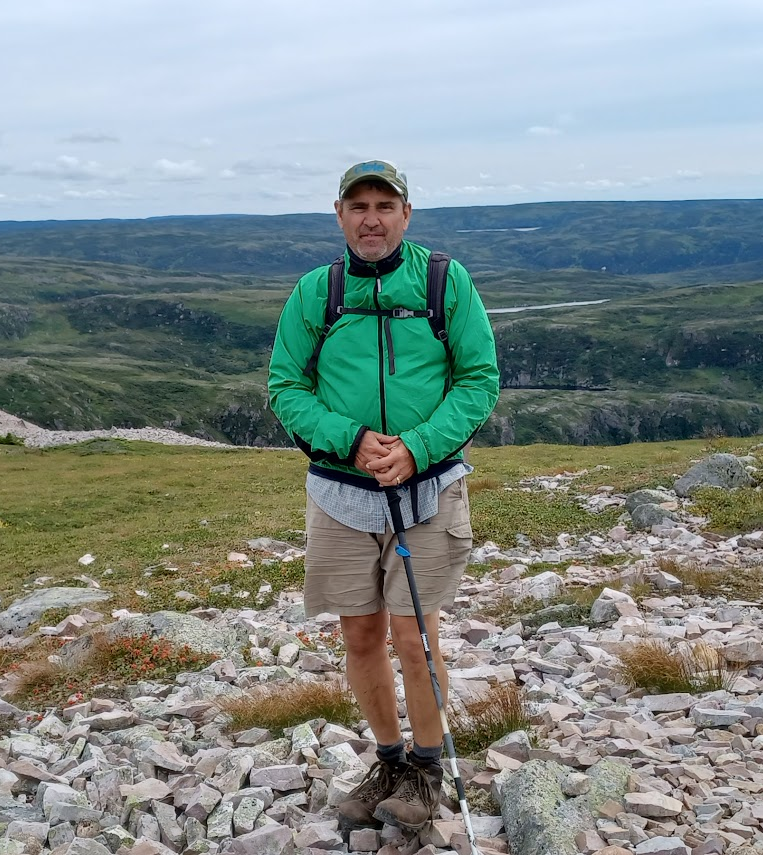
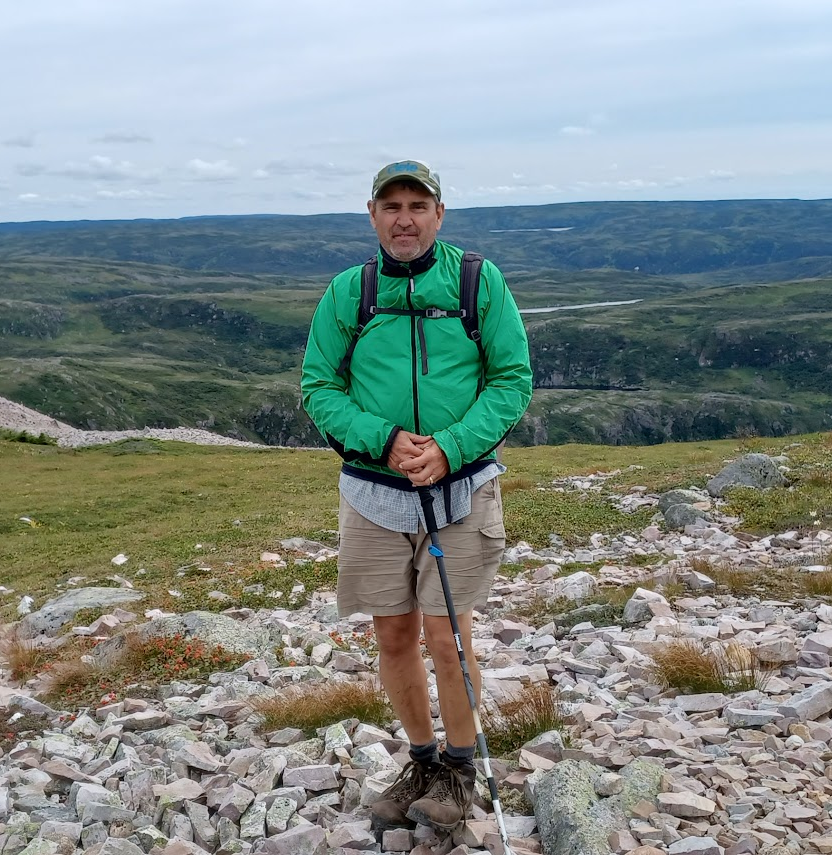
Built site for gh-pages

diff --git a/events.html b/events.html
@@ -245,10 +245,10 @@ ul.task-list li input[type="checkbox"] {
 </section>
 <section id="2026-07-25-1" class="level5">
 <h5 class="anchored" data-anchor-id="2026-07-25-1">Saturday, Jul 25 2026</h5>
-<p><span class="event-title">Marsh Watch and Walk at the Discovery Centre</span> Hosted by Westman Naturalists</p>
+<p><span class="event-title">Marsh Watch and Walk at the Discovery Centre</span> Hosted by Birds Canada and Westman Naturalists</p>
 <p>Join LeeAnn Latremouille from Birds Canada and Westman Naturalists for a guided walk around the wetlands at the Discovery Centre in Brandon! This walk is part of the field component of the MarshWatch webinar series; it’s a great way to apply what you learned (or a great way to learn about the program itself if you haven’t joined before). More details on the MarshWatch program can be found on <a href="https://www.birdscanada.org/bird-science/marsh-watch">Birds Canada’s website</a>.</p>
 <p>We’ll meet near the southeast corner of the parking lot at the Discovery Centre, and then hit the trails! Bring your binoculars if you have them, or we have a couple extra that can be shared. As always, dress for the weather!</p>
-<p><strong>Participation</strong>: TBA</p>
+<p><strong>Participation</strong>:</p>
 <p><strong>Time</strong>: 8:00 AM<br><strong>Location</strong>: Brandon</p>
 <p><a href="mailto:[email redacted]">Contact Westman Naturalists for more information</a></p>
 <hr>

diff --git a/event_advertising/ebrandon.html b/event_advertising/ebrandon.html
@@ -169,7 +169,7 @@ ul.task-list li input[type="checkbox"] {
 <p>Westman Naturalists - Marsh Watch and Walk at the Discovery Centre</p>
 <p>Join LeeAnn Latremouille from Birds Canada and Westman Naturalists for a guided walk around the wetlands at the Discovery Centre in Brandon! This walk is part of the field component of the MarshWatch webinar series; it’s a great way to apply what you learned (or a great way to learn about the program itself if you haven’t joined before). More details on the MarshWatch program can be found on <a href="https://www.birdscanada.org/bird-science/marsh-watch">Birds Canada’s website</a>.</p>
 <p>We’ll meet near the southeast corner of the parking lot at the Discovery Centre, and then hit the trails! Bring your binoculars if you have them, or we have a couple extra that can be shared. As always, dress for the weather!</p>
-<p><strong>Participation</strong>: TBA</p>
+<p><strong>Participation</strong>:</p>
 <p>Brandon</p>
 <hr>
 <p>Saturday, Aug 08 2026 - TBD TBD</p>